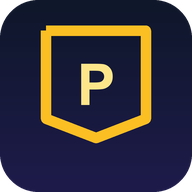
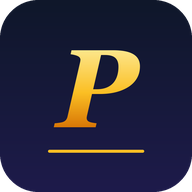
feat(ui): PRAETOR 斜体艺术字 wordmark —— 用户选定方向
替换上一版盾形图标为斜体衬线艺术字：
- logo.png（880x230 高清透明底）：Georgia Bold Italic 金色渐变 PRAETOR +
  两端渐隐下划金线 + 线尾小盾徽 + 拉丁箴言副标 "Fortis · Fidelis · Vigilans"
  （强有力 · 忠诚 · 警觉 —— 契合平台定位）
- logo-square.png / icon.png / favicon.ico：方形斜体金 P + 下划线（深蓝渐变底）
- logo.svg / icon.svg 同步为字标/斜体 P 的矢量版

引用：登录页与 setup 页用横向字标（340x89，金光晕），侧栏用方形 P（40px）。
PNG 位图而非 SVG text——避免跨平台浏览器字体渲染差异。

实现：PIL 按字形遮罩合成垂直渐变（第一版漏了 alpha 裁剪，整块渐变方块——
用 putalpha(multiply(gradA, mask)) 修正）；文字锚点 anchor="ma"/"mm" 精确居中。

Changed region(s): [[0.1875, 0.125, 0.8125, 0.8125]]

diff --git a/web/src/app/(main)/_components/sidebar/app-sidebar.tsx b/web/src/app/(main)/_components/sidebar/app-sidebar.tsx
@@ -44,7 +44,7 @@ export function AppSidebar({ ...props }: React.ComponentProps<typeof Sidebar>) {
             <SidebarMenuButton asChild>
               <Link prefetch={false} href="/function/tasks">
                 {/* eslint-disable-next-line @next/next/no-img-element */}
-                <img src="/logo.png" alt="PRAETOR" width={40} height={40} className="shrink-0" />
+                <img src="/logo-square.png" alt="PRAETOR" width={40} height={40} className="shrink-0 rounded-md" />
                 <span className="font-semibold text-base">{APP_CONFIG.name}</span>
               </Link>
             </SidebarMenuButton>

diff --git a/web/src/app/(auth)/login/page.tsx b/web/src/app/(auth)/login/page.tsx
@@ -95,7 +95,7 @@ export default function LoginPage() {
           <div className="absolute size-60 rounded-full border border-primary-foreground/15" />
           <div className="absolute size-40 rounded-full border border-primary-foreground/20" />
           {/* eslint-disable-next-line @next/next/no-img-element */}
-          <img src="/logo.svg" alt="PRAETOR" width={160} height={160} className="relative drop-shadow-[0_0_24px_rgba(251,191,36,0.25)]" />
+          <img src="/logo.png" alt="PRAETOR" width={340} height={89} className="relative drop-shadow-[0_0_28px_rgba(251,191,36,0.3)]" />
         </div>
       </div>
 

diff --git a/web/src/app/(auth)/setup/page.tsx b/web/src/app/(auth)/setup/page.tsx
@@ -68,7 +68,7 @@ export default function SetupPage() {
           <div className="absolute size-60 rounded-full border border-primary-foreground/15" />
           <div className="absolute size-40 rounded-full border border-primary-foreground/20" />
           {/* eslint-disable-next-line @next/next/no-img-element */}
-          <img src="/logo.svg" alt="PRAETOR" width={160} height={160} className="relative drop-shadow-[0_0_24px_rgba(251,191,36,0.25)]" />
+          <img src="/logo.png" alt="PRAETOR" width={340} height={89} className="relative drop-shadow-[0_0_28px_rgba(251,191,36,0.3)]" />
         </div>
       </div>
 
